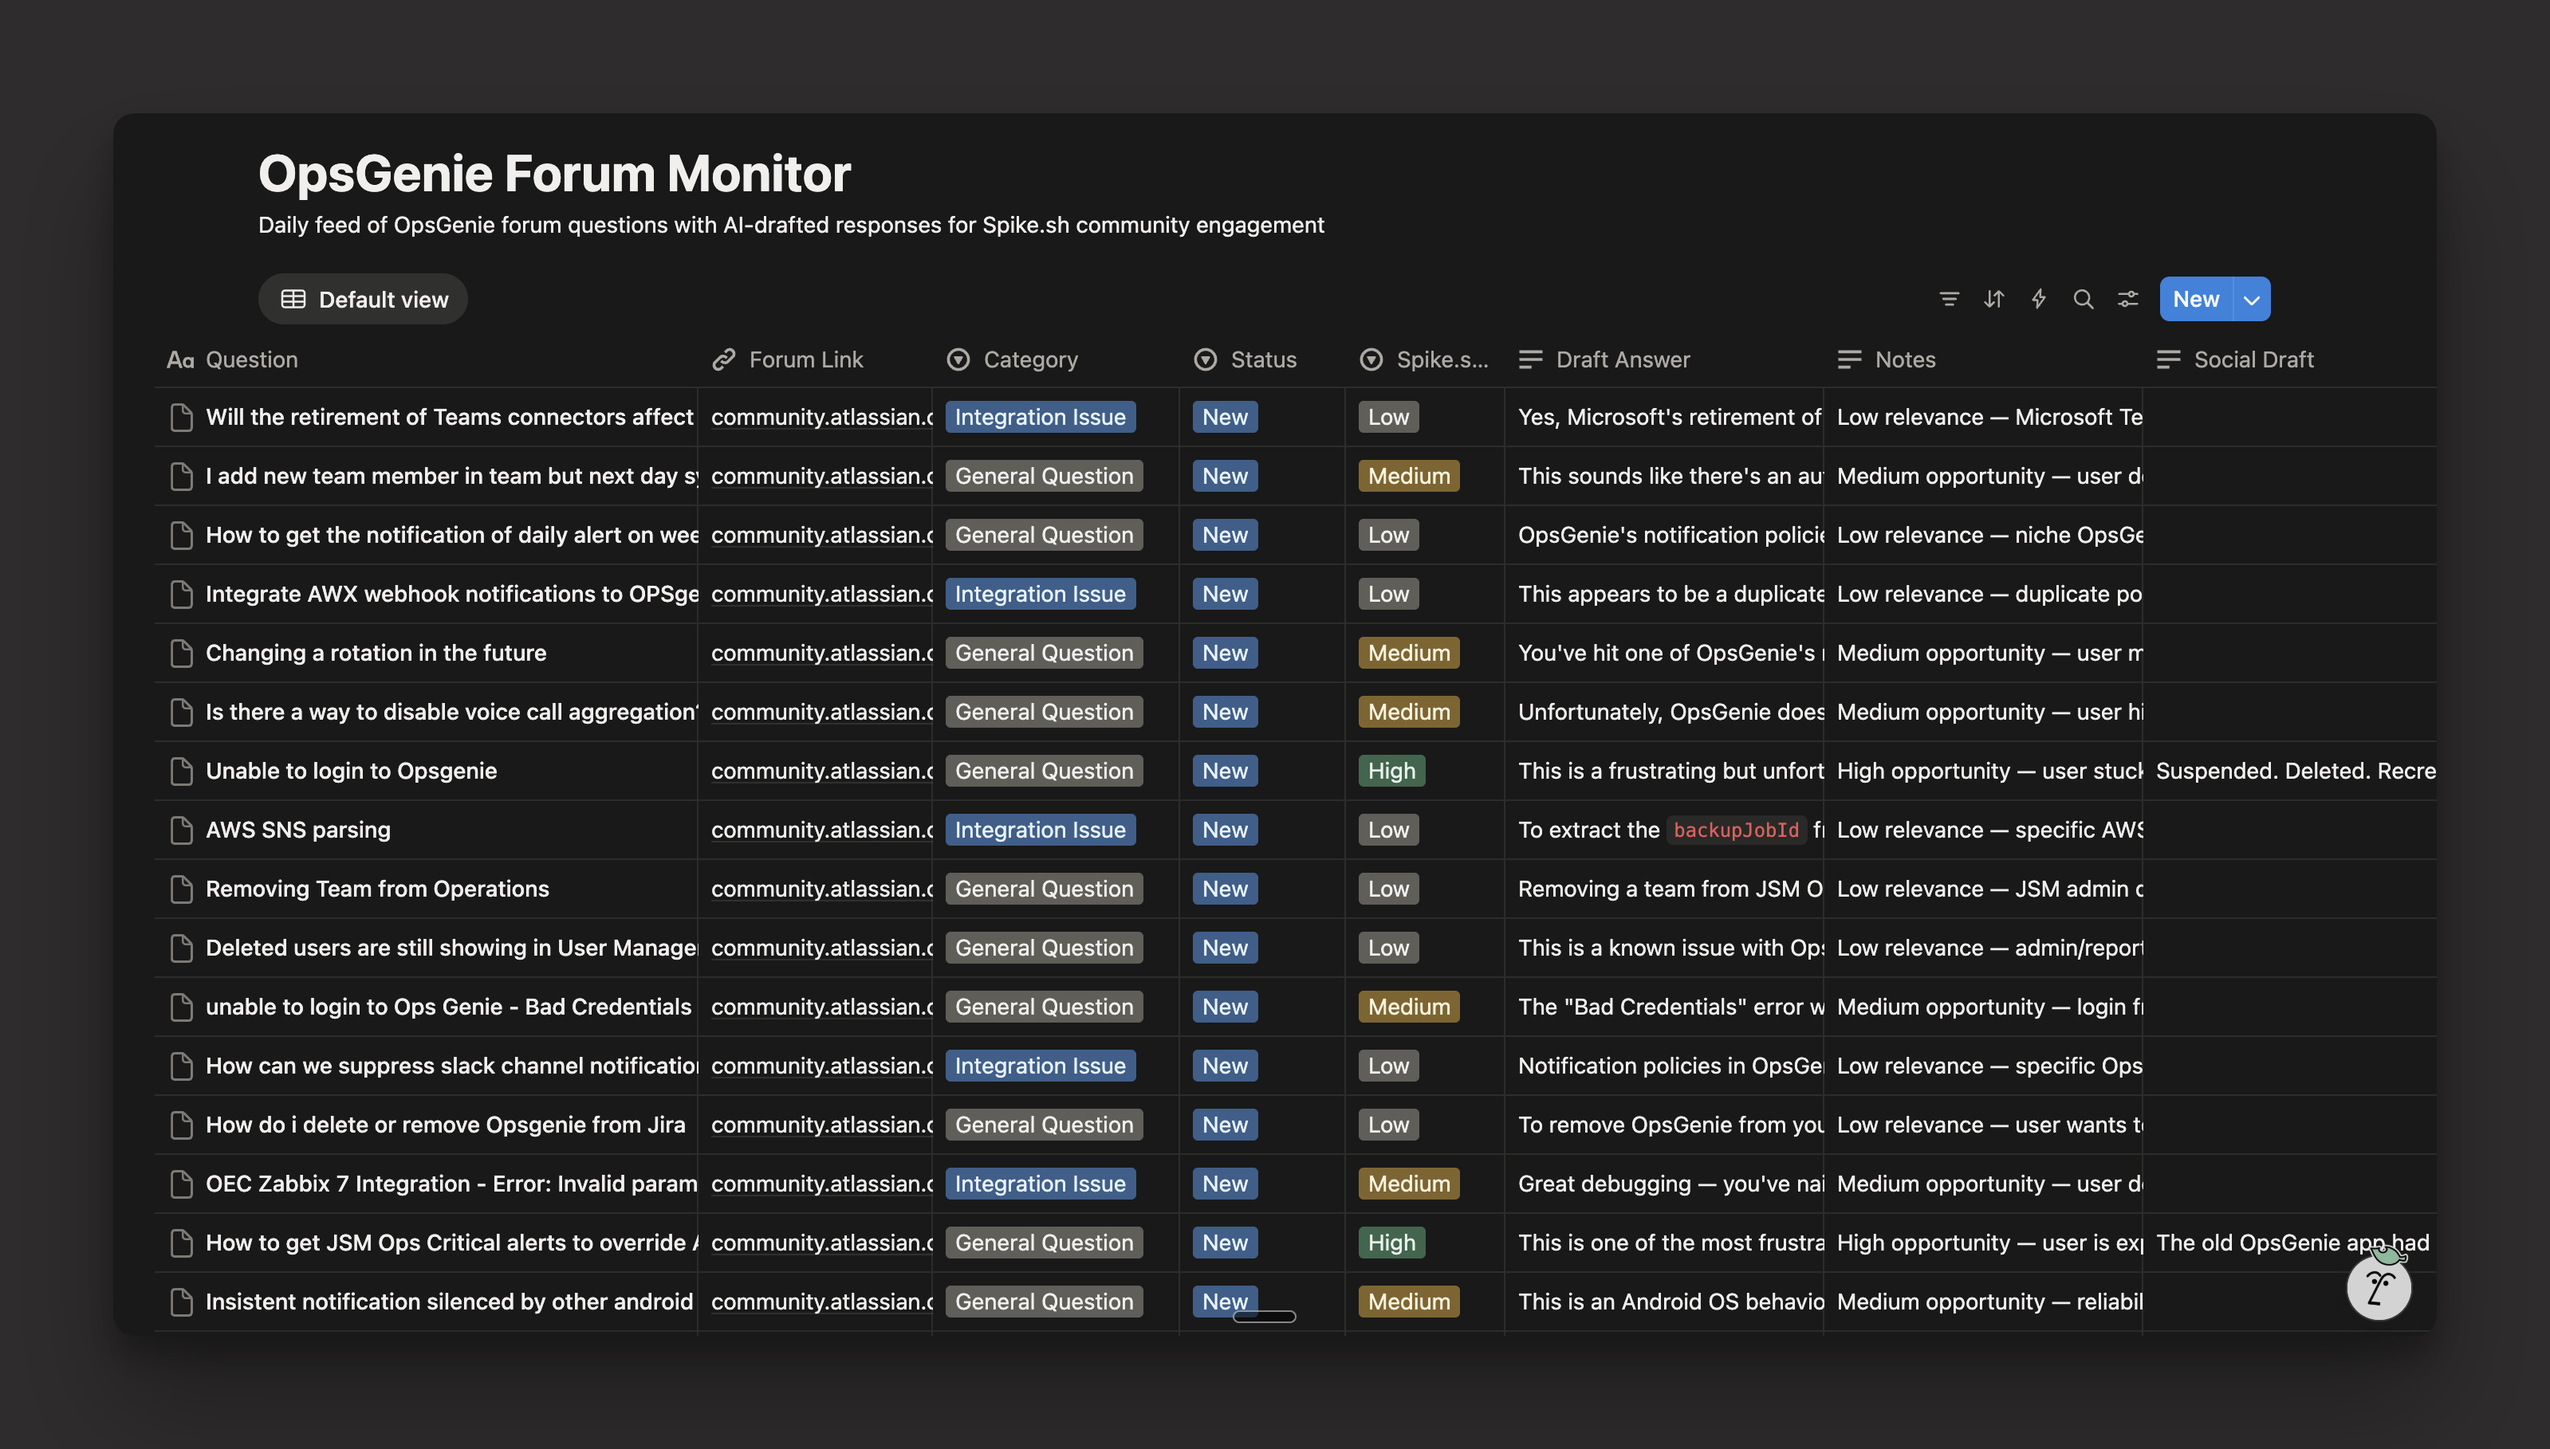
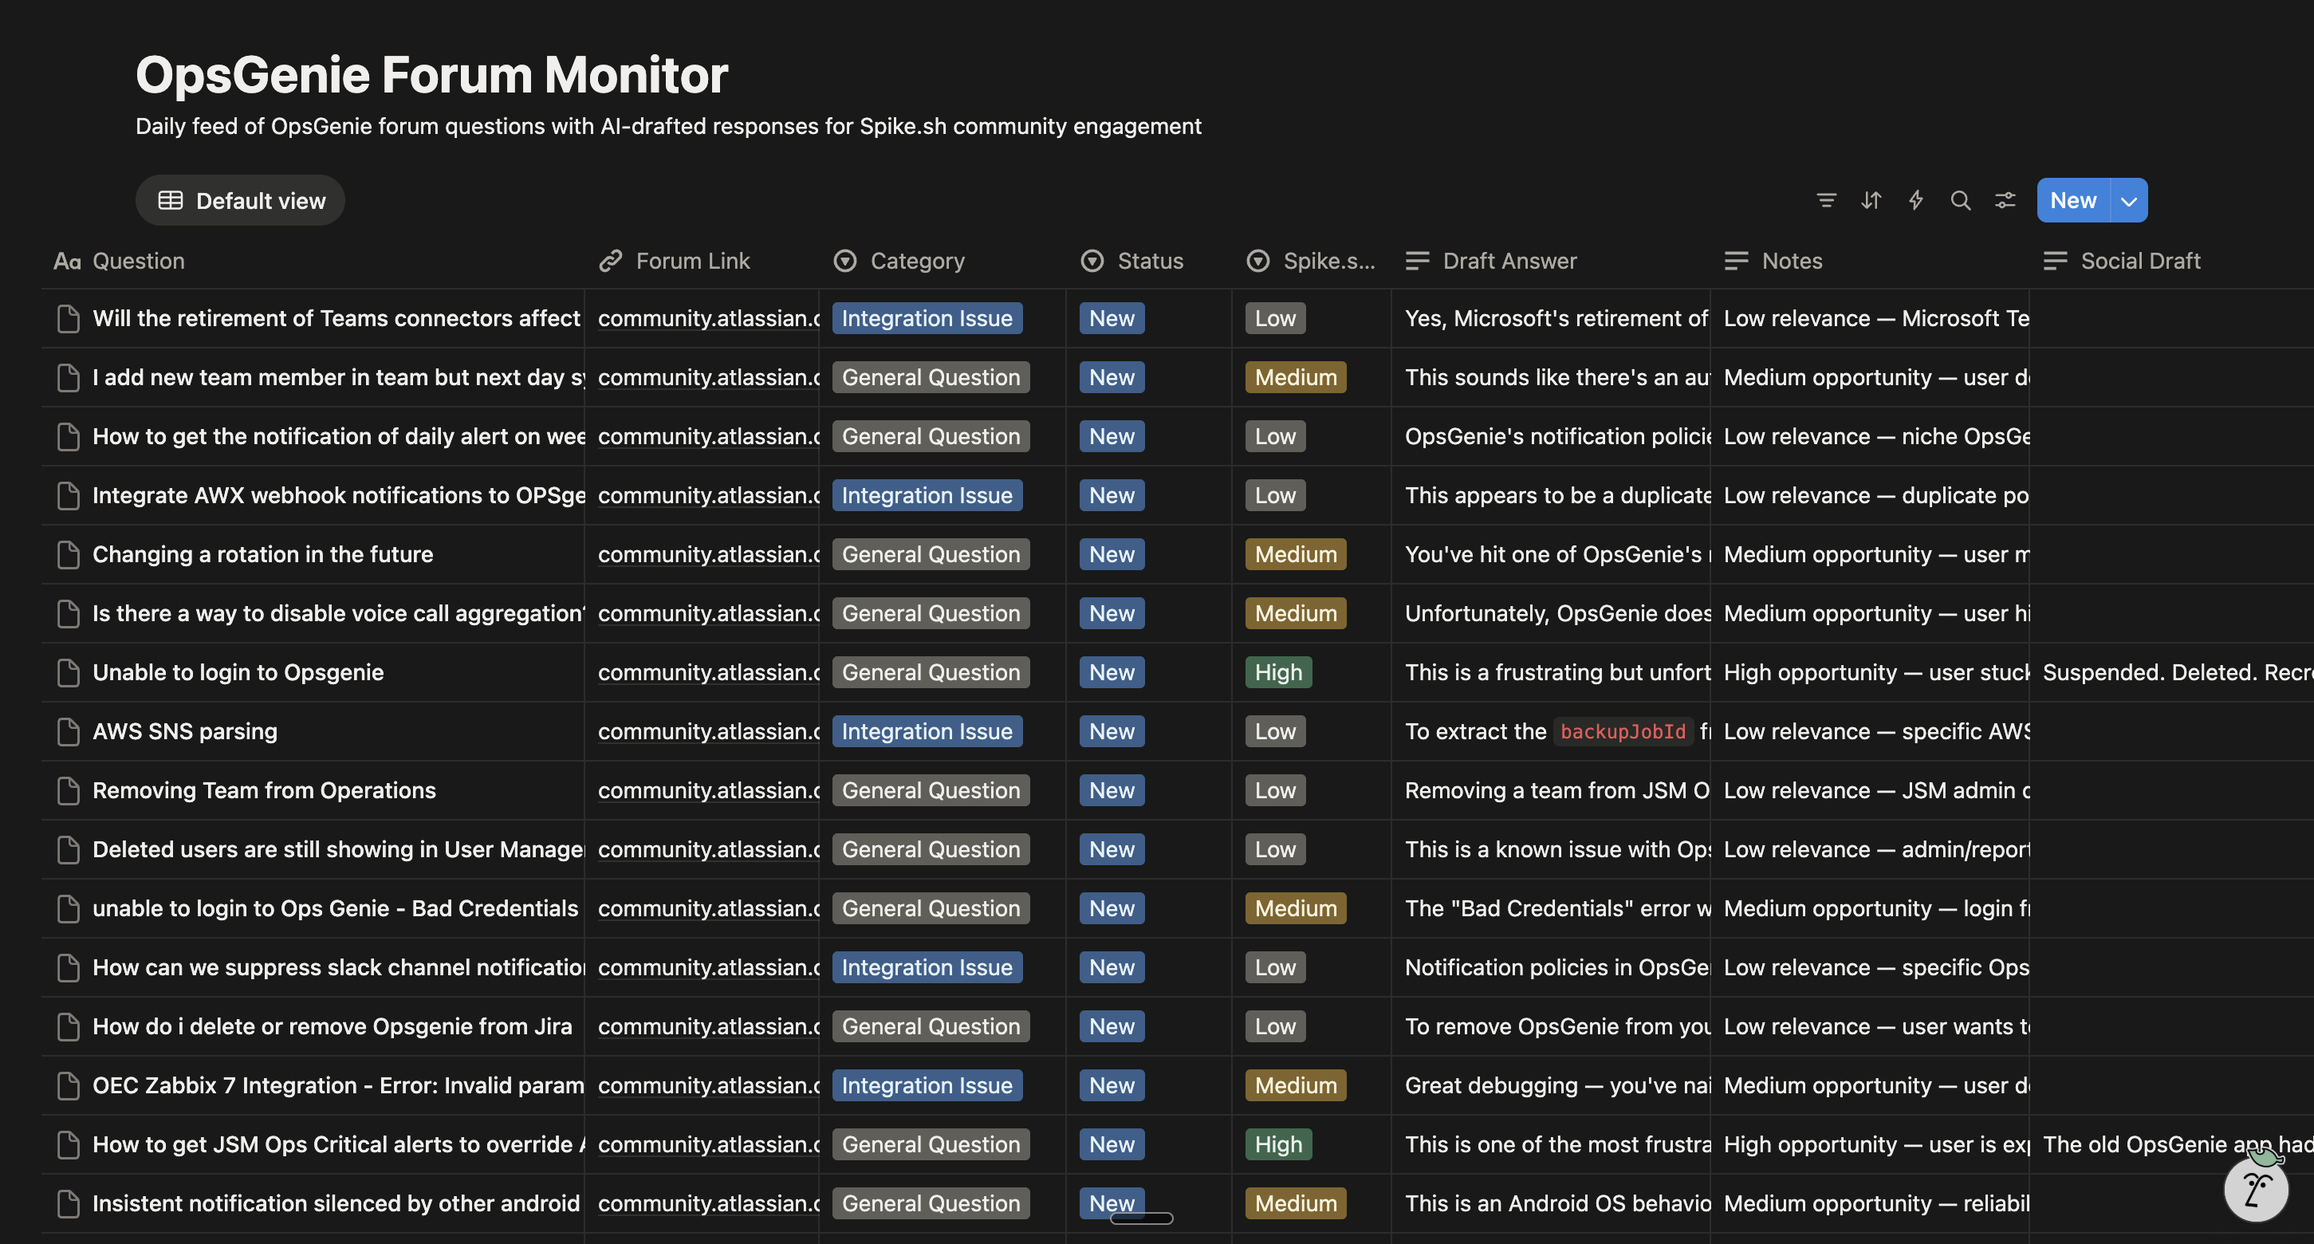
Update image and add shadow to make it pop

diff --git a/style.css b/style.css
@@ -128,6 +128,8 @@ hr {
   width: 100%;
   border-radius: 6px;
   margin-bottom: 24px;
+  box-shadow: 0 4px 24px rgba(0, 0, 0, 0.5);
+  border: 1px solid #2a2a2a;
 }
 
 .post-body a {
